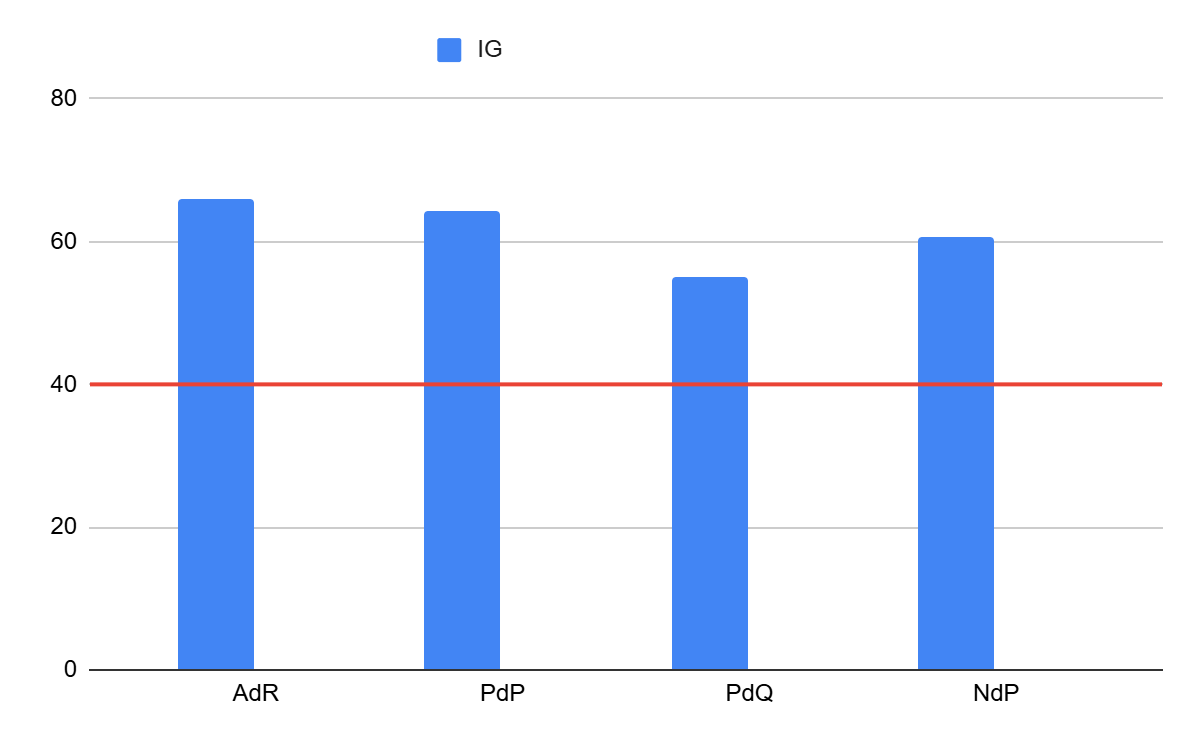
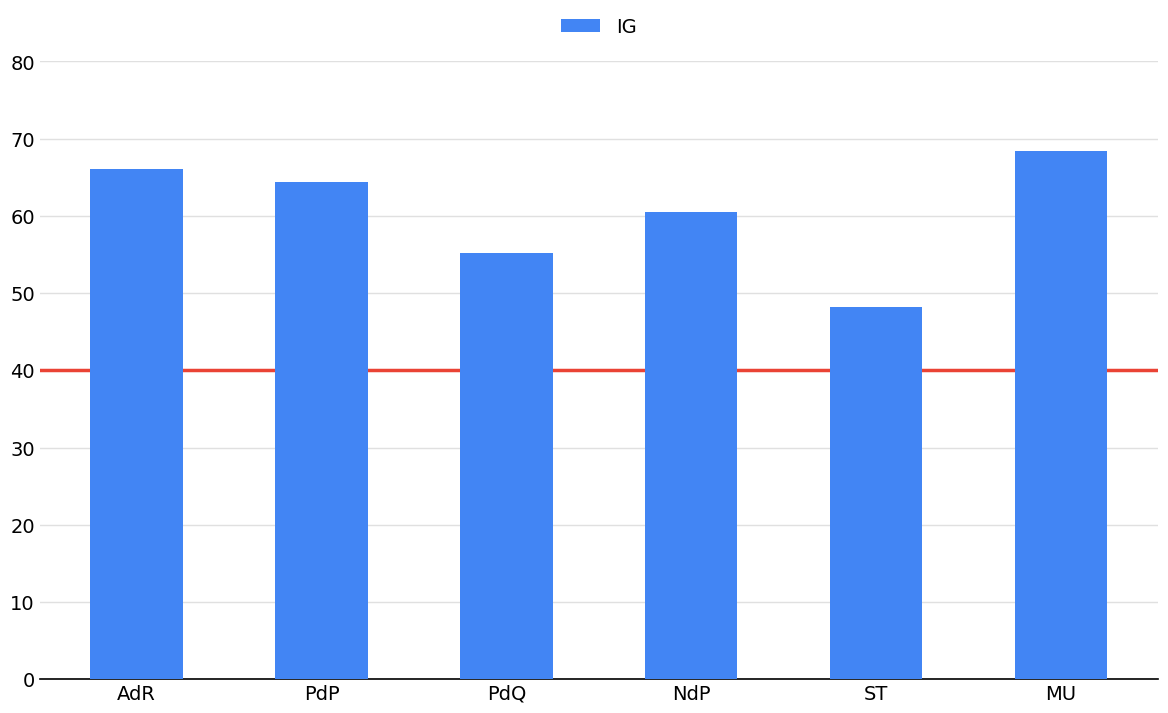
Sistemato problemi nel PdQ

diff --git a/Documentazione/LaTeX/Piano di Qualifica/Piano di Qualifica.tex b/Documentazione/LaTeX/Piano di Qualifica/Piano di Qualifica.tex
@@ -1431,7 +1431,7 @@ Osservando i dati, emerge un incremento significativo e costante del numero tota
 \end{itemize}
 
 \subsection{MP\_9: Requirements Stability Index (RSI) PB}
-Questa sottosezione estende l'analisi del \textit{Requirements Stability Index} all'intera durata del progetto, dallo \textit{Sprint} 1 allo \textit{Sprint} 17, a partire dalla versione aggiornata dell'\textbf{Analisi dei Requisiti} (AdR v2.0.0, approvata il 2026/09/16 per la revisione PB).
+Questa sottosezione estende l'analisi del \textit{Requirements Stability Index} all'intera durata del progetto, dallo \textit{Sprint} 1 allo \textit{Sprint} 17, confermato dalla versione approvata dell'\textbf{Analisi dei Requisiti} (AdR v2.0.0, 2026/09/16).
 
 \begin{table}[htbp]
     \centering
@@ -1450,11 +1450,11 @@ Questa sottosezione estende l'analisi del \textit{Requirements Stability Index} 
         8  & 142 & 8  & 94\% & 80\% \\ \hline
         9  & 142  & 0  & 100\%  & 80\% \\ \hline
         10 & 142  & 0  & 100\%  & 80\% \\ \hline
-        11 & 105  & 0  & 100\%  & 80\% \\ \hline
-        12 & 105  & 0  & 100\%  & 80\% \\ \hline
-        13 & 105  & 0  & 100\%  & 80\% \\ \hline
-        14 & 105  & 0  & 100\%  & 80\% \\ \hline
-        15 & 141  & 36  & 74,5\%  & 80\% \\ \hline
+        11 & 142  & 0  & 100\%  & 80\% \\ \hline
+        12 & 142  & 0  & 100\%  & 80\% \\ \hline
+        13 & 142  & 0  & 100\%  & 80\% \\ \hline
+        14 & 142  & 0  & 100\%  & 80\% \\ \hline
+        15 & 141  & 1  & 99,3\%  & 80\% \\ \hline
         16 & 141  & 0  & 100\%  & 80\% \\ \hline
         17 & 141  & 0  & 100\%  & 80\% \\ \hline
     \end{tabular}
@@ -1470,16 +1470,14 @@ Questa sottosezione estende l'analisi del \textit{Requirements Stability Index} 
 \end{center}
 
 \subsubsection*{Valutazione dell'andamento}
-L'analisi del \textit{Requirements Stability Index} (RSI) evidenzia un andamento complessivamente adeguato sull'intera durata del progetto, seppur con alcune dinamiche che meritano contestualizzazione. Nello \textit{Sprint} 1 la metrica non è calcolabile (N/A) in quanto il periodo è stato dedicato a uno studio generale del dominio, rimandando la definizione concreta dei requisiti allo \textit{Sprint} 2. Osservando i dati, emerge un incremento significativo e costante del numero totale di requisiti iterazione dopo iterazione, passando da 15 nello \textit{Sprint} 2 a 142 nello \textit{Sprint} 8, per poi consolidarsi definitivamente negli \textit{Sprint} 9 e 10, dove non vengono più né aggiunti né modificati requisiti.
+L'analisi del \textit{Requirements Stability Index} (RSI) evidenzia un andamento complessivamente adeguato sull'intera durata del progetto, seppur con alcune dinamiche che meritano contestualizzazione. Nello \textit{Sprint} 1 la metrica non è calcolabile (N/A) in quanto il periodo è stato dedicato a uno studio generale del dominio, rimandando la definizione concreta dei requisiti allo \textit{Sprint} 2. Osservando i dati, emerge un incremento significativo e costante del numero totale di requisiti iterazione dopo iterazione, passando da 15 nello \textit{Sprint} 2 a 142 nello \textit{Sprint} 8, per poi consolidarsi negli \textit{Sprint} 9 e 10, dove non vengono più né aggiunti né modificati requisiti. Il totale di 142 requisiti resta stabile anche negli \textit{Sprint} 11-14, non essendo emerse modifiche di rilievo in questo intervallo.
 
-A partire dallo \textit{Sprint} 11, il conteggio dei requisiti totali viene ricalcolato utilizzando il numero di identificativi di requisito (RF, RQ, RV, RS) distinti presenti nel testo dell'\textbf{Analisi dei Requisiti}, anziché il conteggio adottato fino allo \textit{Sprint} 10. Questo cambio di metodologia spiega l'apparente calo del totale da 142 a 105 requisiti tra lo \textit{Sprint} 10 e lo \textit{Sprint} 11: non si tratta di una rimozione di requisiti, ma del passaggio a una fonte di conteggio diversa.
-
-Nessuna revisione dell'AdR durante gli \textit{Sprint} 11-14, che mantengono pertanto un RSI del 100\% rispetto al totale di baseline di 105 requisiti. Nello \textit{Sprint} 15 i requisiti arrivano a un totale di 141 a causa delle modifiche post-RTB, con un conseguente calo del RSI al 74,5\%, unico caso sotto la soglia di accettazione dell'80\% nell'intera durata del progetto. Gli \textit{Sprint} 16 e 17 mantengono invariato il nuovo totale di 141 requisiti (l'ultimo, la revisione v2.0.0 del 2026/09/16, integra le correzioni richieste dal Prof. Cardin senza modificarne il conteggio), riportando la metrica al valore ottimale del 100\% per il resto del progetto.
+Nello \textit{Sprint} 15 viene applicata al documento \textbf{Analisi dei Requisiti} una correzione richiesta dal Prof. Cardin, che comporta la rimozione di un requisito e porta il totale a 141: un cambiamento contenuto, che si riflette in un RSI del 99,3\%, l'unico \textit{Sprint} della fase PB in cui la metrica si discosta dal valore ottimale. Il nuovo totale di 141 requisiti resta invariato negli \textit{Sprint} 16 e 17, compresa la revisione finale dell'AdR (v2.0.0, 2026/09/16), che integra le correzioni del Prof. Cardin senza ulteriori variazioni al conteggio, riportando la metrica al 100\% per la chiusura del progetto.
 
 \paragraph*{MP\_9 - Requirements Stability Index (RSI)}
 \begin{itemize}
-    \item \textbf{Valore di accettazione ($\ge 80\%$):} Il vincolo è rispettato per tutti gli \textit{Sprint} noti, ad eccezione dello \textit{Sprint} 15 (74,5\%), unico caso sotto soglia.
-    \item \textbf{Valore ottimale ($= 100\%$):} Il vincolo è soddisfatto negli \textit{Sprint} 2, 5, 9, 10, 11, 12, 13, 14, 16 e 17. Non è soddisfatto negli \textit{Sprint} 3, 4, 6, 7, 8 e 15.
+    \item \textbf{Valore di accettazione ($\ge 80\%$):} Il vincolo è sempre rispettato su tutti gli \textit{Sprint} noti, senza eccezioni.
+    \item \textbf{Valore ottimale ($= 100\%$):} Il vincolo è soddisfatto negli \textit{Sprint} 2, 5, 9, 10, 11, 12, 13, 14, 16 e 17. Non è soddisfatto negli \textit{Sprint} 3, 4, 6, 7, 8 e 15, quest'ultimo con uno scostamento minimo (99,3\%).
 \end{itemize}
 
 \subsection{MP\_10: Indice di Gulpease (IG)}
@@ -1495,6 +1493,8 @@ L'Indice di Gulpease (IG) valuta in modo oggettivo la complessità e il grado di
         PdP & 64.34 & 40 \\ \hline
         PdQ & 55.14 & 40 \\ \hline
         NdP & 60.52 & 40 \\ \hline
+        ST & 48.20 & 40 \\ \hline
+        MU & 68.45 & 40 \\ \hline
     \end{tabular}
     \caption{Indice di Gulpease (IG) per documento}
     \label{tab:ig_documento}
@@ -1509,34 +1509,36 @@ L'Indice di Gulpease (IG) valuta in modo oggettivo la complessità e il grado di
 
 \paragraph*{MP\_10 - Indice di Gulpease (IG)}
 \begin{itemize}
-    \item \textbf{Valore di accettazione ($\ge 40$):} Il vincolo è sempre rispettato. Tutti i documenti prodotti superano la soglia di tolleranza minima (registrando valori tra 55 e 66).
-    \item \textbf{Valore ottimale ($\ge 60$):} Il vincolo risulta rispettato limitatamente al documento \textbf{Analisi dei Requisiti} (AdR), che raggiunge un indice pari a circa 66. Per i restanti documenti (\textbf{Piano di Progetto}, \textbf{Piano di Qualifica} e \textbf{Norme di Progetto}), l'indice si attesta su valori compresi tra 55 e 65. Sebbene al di sotto della soglia di ottimalità, tali risultati descrivono un grado di leggibilità accettabile tenendo in considerazione la natura tecnica e formale dei contenuti trattati.
+    \item \textbf{Valore di accettazione ($\ge 40$):} Il vincolo è sempre rispettato. Tutti i documenti prodotti superano la soglia di tolleranza minima (registrando valori tra 48 e 68).
+    \item \textbf{Valore ottimale ($\ge 60$):} Il vincolo risulta rispettato dal documento \textbf{Analisi dei Requisiti} (AdR, 66,01), dal \textbf{Piano di Progetto} (PdP, 64,34), dalle \textbf{Norme di Progetto} (NdP, 60,52) e, in particolare, dal \textbf{Manuale Utente} (MU, 68,45), che registra il valore più alto in assoluto, coerentemente con la sua natura di documento rivolto a un pubblico non tecnico. Restano sotto soglia il \textbf{Piano di Qualifica} (PdQ, 55,14) e le \textbf{Specifiche Tecniche} (ST, 48,20), quest'ultimo il più penalizzato a causa dell'elevata densità terminologica intrinseca al contenuto tecnico-architetturale trattato. Sebbene al di sotto della soglia di ottimalità, tali risultati descrivono comunque un grado di leggibilità accettabile tenendo in considerazione la natura tecnica e formale dei contenuti trattati.
 \end{itemize}
 
 \subsection{MP\_11: Correttezza Ortografica}
-La Correttezza Ortografica quantifica gli errori grammaticali e di battitura al fine di garantire l’elevata qualità formale dei documenti rilasciati.
+La Correttezza Ortografica quantifica gli errori grammaticali e di battitura al fine di garantire l'elevata qualità formale dei documenti rilasciati.
 
 \begin{table}[htbp]
     \centering
     \renewcommand{\arraystretch}{1.3}
     \begin{tabular}{|c|c|c|c|}
         \hline
-        \textbf{Documento} & \textbf{Errori versioni prec.} & \textbf{Errori v2.0.0} & \textbf{Soglia accettabile} \\ \hline
+        \textbf{Documento} & \textbf{Errori versioni prec.} & \textbf{Errori versione finale} & \textbf{Soglia accettabile} \\ \hline
         AdR & 7 & 0 & $\leq 5$ \\ \hline
         PdP & 5 & 0 & $\leq 5$ \\ \hline
         PdQ & 4 & 0 & $\leq 5$ \\ \hline
         NdP & 6 & 0 & $\leq 5$ \\ \hline
+        ST & 6 & 0 & $\leq 5$ \\ \hline
+        MU & 3 & 0 & $\leq 5$ \\ \hline
     \end{tabular}
     \caption{Correttezza Ortografica per documento}
     \label{tab:errori_documento}
 \end{table}
 
-Prima del rilascio dei documenti nella loro versione 2.0.0, il team effettua un controllo semi-automatico volto a individuare eventuali errori ortografici. Le imperfezioni riscontrate nelle versioni in lavorazione vengono così corrette in modo sistematico prima dell'approvazione finale, garantendo la correttezza linguistica dei documenti.
+Prima del rilascio dei documenti nella loro versione 2.0.0, e 1.0.0 per le Specifiche Tecniche e per il Manuale Utente, il team effettua un controllo semi-automatico volto a individuare eventuali errori ortografici. Le imperfezioni riscontrate nelle versioni in lavorazione vengono così corrette in modo sistematico prima dell'approvazione finale, garantendo la correttezza linguistica dei documenti.
 
 \paragraph*{MP\_11 - Correttezza Ortografica}
 \begin{itemize}
-    \item \textbf{Valore di accettazione ($\le 5$ errori):} Il vincolo risulta sempre rispettato nella versione 2.0.0. Nelle versioni precedenti la soglia di tolleranza era stata superata in due documenti (\textbf{Analisi dei Requisiti} con 7 errori e \textbf{Norme di Progetto} con 6 errori).
-    \item \textbf{Valore ottimale ($= 0$ errori):} Il vincolo è pienamente soddisfatto per tutti i documenti. A seguito delle correzioni applicate, nessun documento in versione 2.0.0 presenta errori ortografici.
+    \item \textbf{Valore di accettazione ($\le 5$ errori):} Il vincolo risulta sempre rispettato nella versione finale. Nelle versioni precedenti la soglia di tolleranza era stata superata in tre documenti (\textbf{Analisi dei Requisiti} con 7 errori, \textbf{Norme di Progetto} con 6 errori e \textbf{Specifiche Tecniche} con 6 errori).
+    \item \textbf{Valore ottimale ($= 0$ errori):} Il vincolo è pienamente soddisfatto per tutti i documenti. A seguito delle correzioni applicate, nessun documento in versione finale presenta errori ortografici.
 \end{itemize}
 
 \subsection{MP\_12: Copertura del Codice (Code Coverage)}
